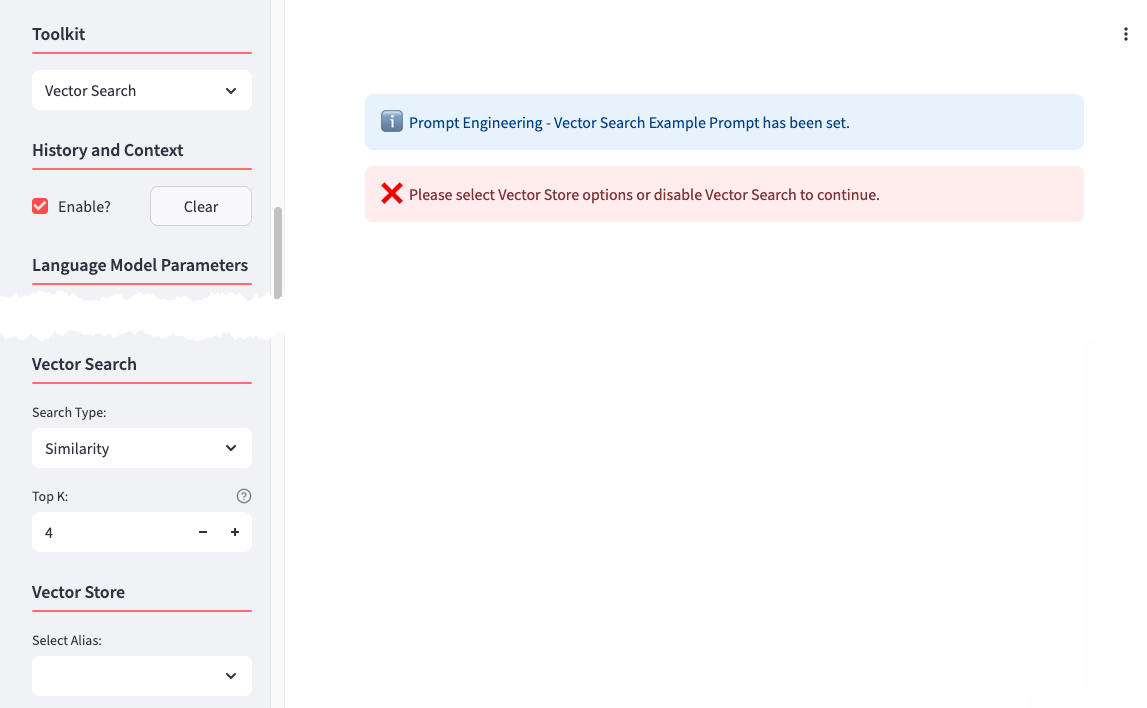
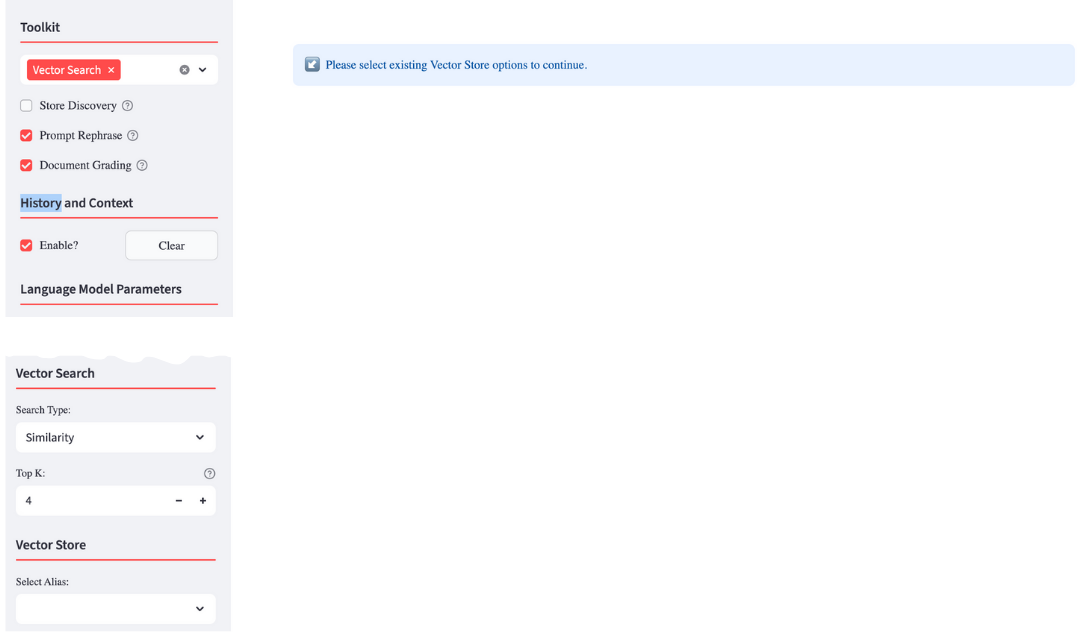
Updated chatbot documentation with NL2SQL added

diff --git a/docs/content/client/chatbot/_index.md b/docs/content/client/chatbot/_index.md
@@ -62,14 +62,39 @@ Once you've created embeddings using [Split/Embed](../tools/split_embed), the Ve
 
 ![Vector Search Options](images/vector_search_options.png)
 
-If you have more than one [Vector Store](#vector-store) you can either use the Store Discovery option or disable it.
+If you have more than one [Vector Store](#vector-store) you can either use the Store Discovery option or disable it. If you decide to disable the Store Discovery option, you will need to select the Vector Store you want to work with.
 
 ![Chatbot Vector Search](images/chatbot_vs.png)
 
-Choose the type of Search you want performed and the additional parameters associated with that search.
+ Choose the type of Search you want performed and the additional parameters associated with that search.
 
 ### Vector Store
 
 With Vector Search selected, if you have more than one Vector Store, you can either select Store Discovery and enable AutoRAG, or you can disable it and choose which specific Vector Store will be used for searching, otherwise it will default to the only one available.  To choose a different Vector Store, click the "Reset" button to open up the available options.
 
 ## NL2SQL (Natural Language to SQL)
+
+The Natural Language to SQL (NL2SQL) tool enables users to query structured data stored in Oracle AI Database 26ai by using natural language instead of SQL statements. 
+
+To use this tool, the **Oracle SQLcl MCP server** must be enabled and properly configured within the {{< short_app_ref >}}. Detailed instructions are available in the official [Oracle documentation](https://docs.oracle.com/en/database/oracle/sql-developer-command-line/25.2/sqcug/using-oracle-sqlcl-mcp-server.html):
+
+![MCP Configuration](images/mcp_configuration.png)
+
+Once the MCP server is configured, the **NL2SQL** tool allows you to issue natural language queries against structured data, such as the dataset shown in the example below:
+
+![Customer Data](images/customer_data.png)
+
+To interact with the tool, navigate to the Chatbot tab, select NL2SQL from the tool dropdown menu, and enter a query such as:
+
+```text
+Can you give me the list of customers?
+```
+The response returned by the tool will be equivalent to the result of an actual SQL query executed against the database:
+
+![NL2SQL Example](images/nl2sql_example.png)
+
+By using this tool, the {{< short_app_ref >}} allows users to query structured data without writing any SQL code, simplifying data access and exploration.
+
+You can experiment freely with your own structured datasets and progressively issue more complex natural language queries to explore the full capabilities of the NL2SQL tool.
+
+
